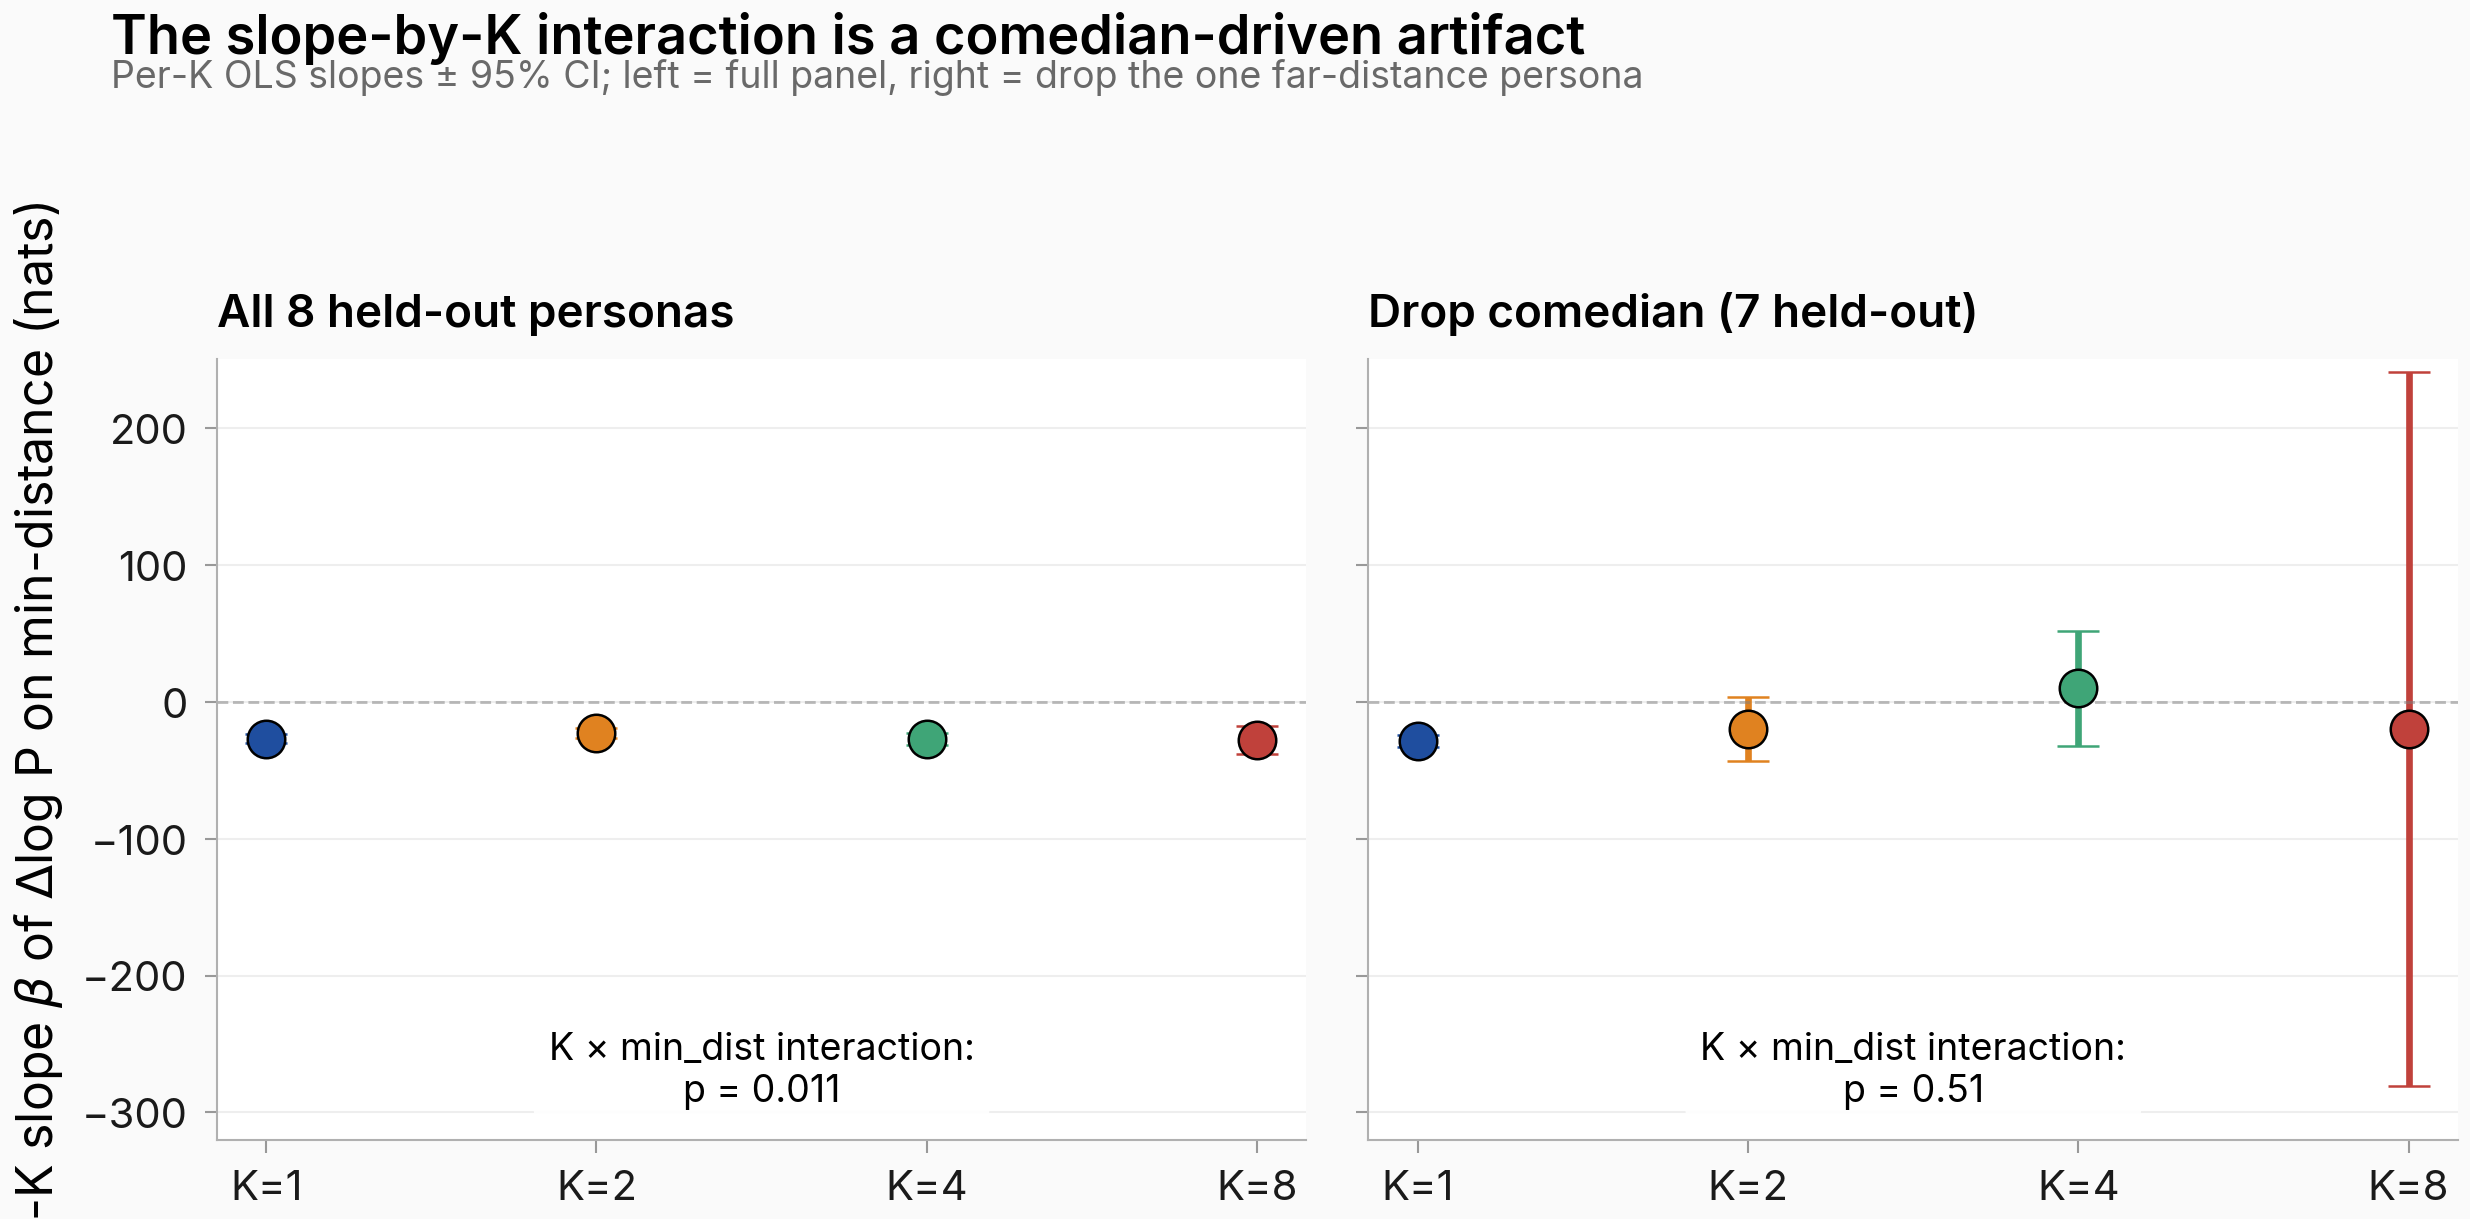
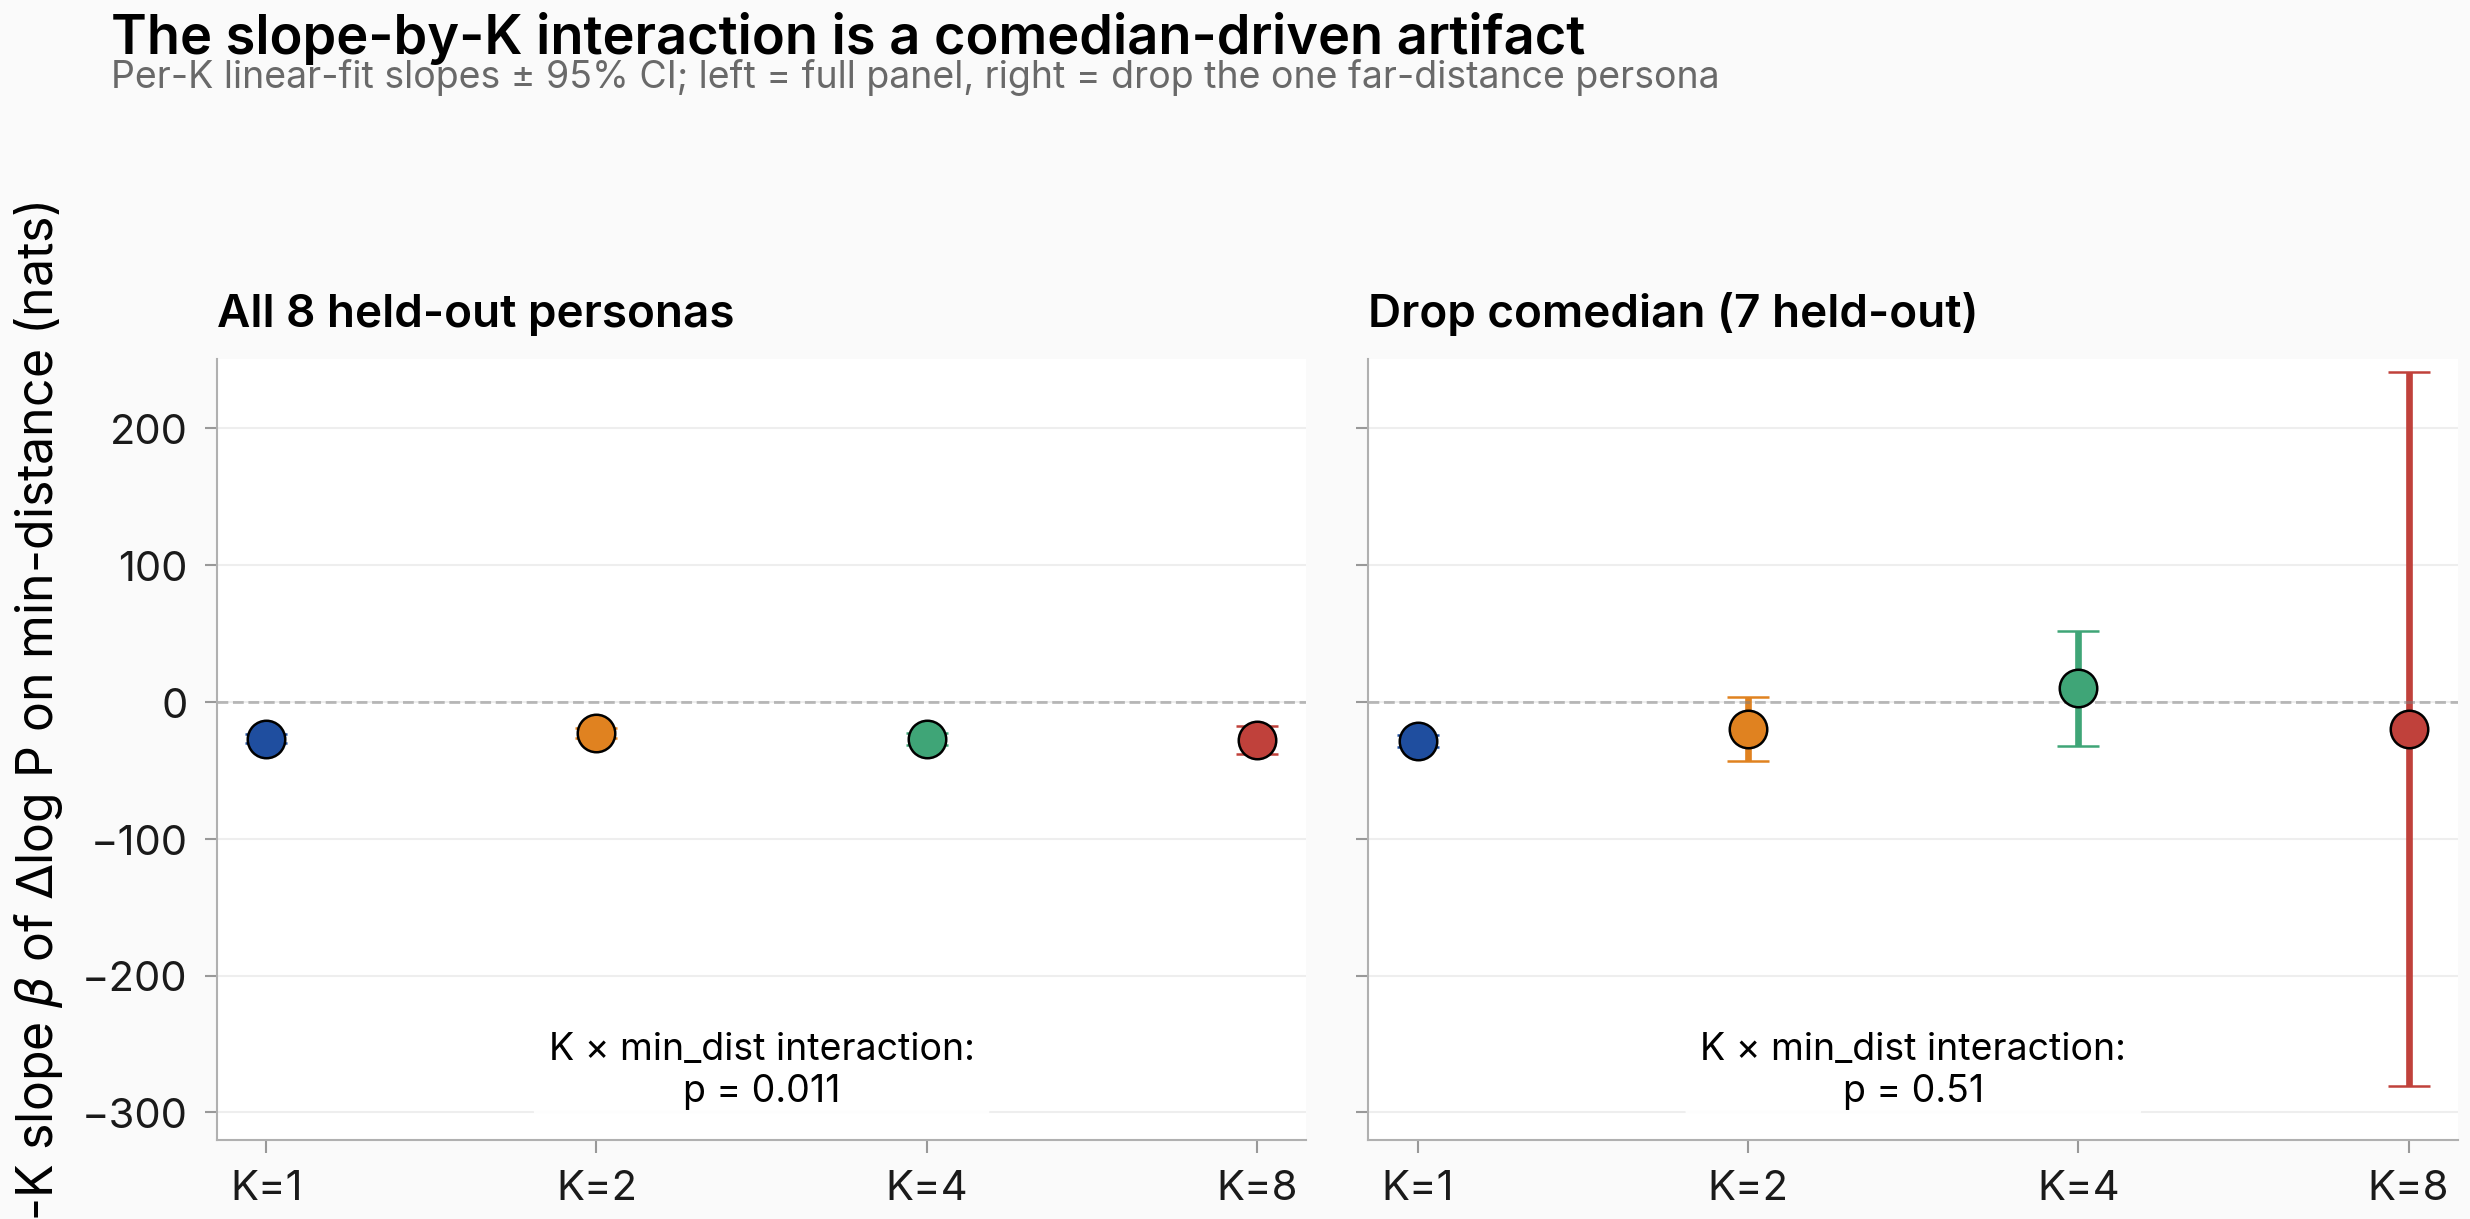
figures: issue #405 comedian-drop subtitle copyedit

Changed region(s): [[0.0935, 0.0312, 0.6858, 0.0935]]

diff --git a/scripts/issue405_clean_result_analysis.py b/scripts/issue405_clean_result_analysis.py
@@ -285,7 +285,7 @@ fig.suptitle(
 fig.text(
     0.06,
     0.93,
-    "Per-K OLS slopes ± 95% CI; left = full panel, right = drop the one far-distance persona",
+    "Per-K linear-fit slopes ± 95% CI; left = full panel, right = drop the one far-distance persona",
     fontsize=9,
     color="dimgray",
     ha="left",
